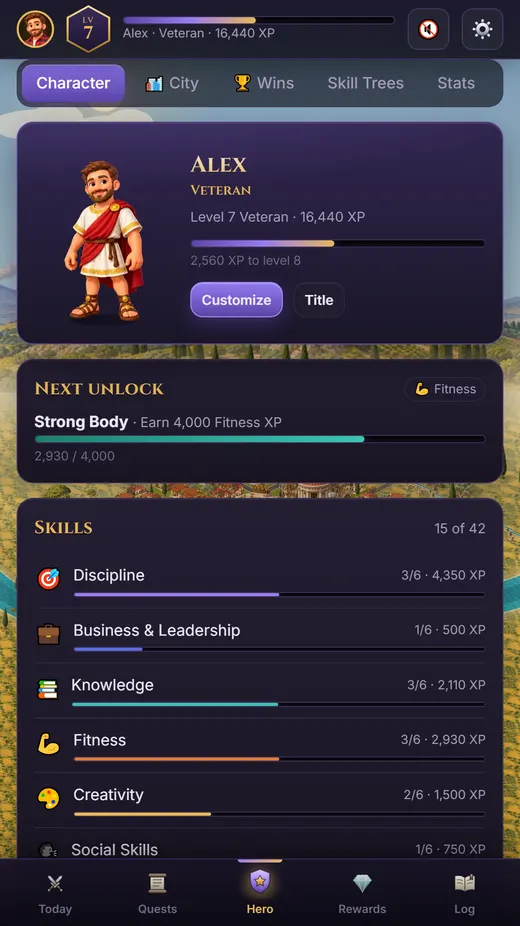
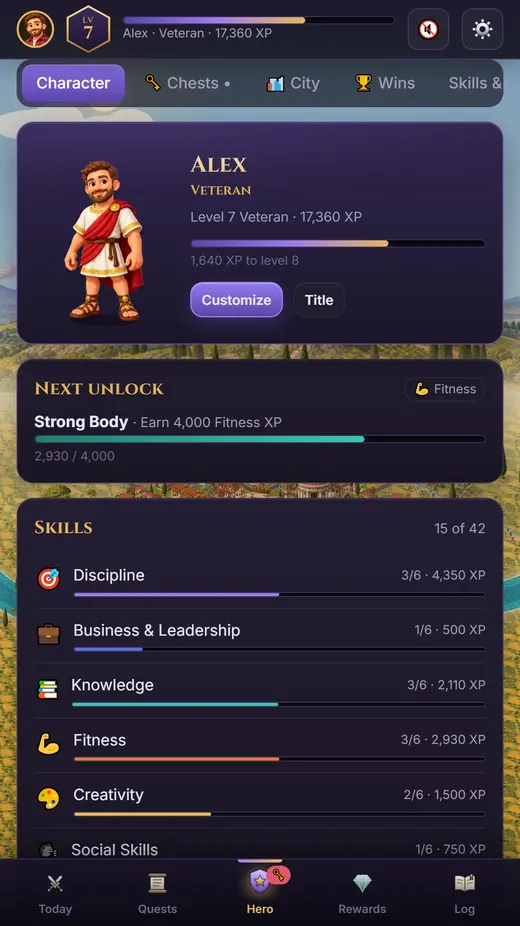
Life RPG page: keys and chests, with new screenshots from the game's version 65
A Keys and chests screenshot and feature (the features now fill three rows of three).
The Hero, Wins, Boss Battles and Rewards shots are retaken: painted badges, the
Boss Battle emblem and the Chests tab. The skill-tree shot is gone, so six shots
still fill two rows. Today and the city pictures stay as they were.

diff --git a/public/life-rpg/index.html b/public/life-rpg/index.html
@@ -54,7 +54,7 @@
     <div class="shop-top-pic"><img src="/assets/life-rpg/phones.webp?v=a983f433" width="1050" height="660" alt="Life RPG on three phones: a hero with seven skills, today's quests and a Roman city, with two of the game's heroes."></div>
   </div>
 </section>
-<section class="wrap section" aria-labelledby="how-h"><div class="sec-head"><h2 id="how-h">How it works</h2></div><ol class="shop-steps"><li><span class="shop-step-n" aria-hidden="true">1</span><b>Pick today&apos;s quests.</b> A workout, homework, reading, chores or a step toward a bigger goal.</li><li><span class="shop-step-n" aria-hidden="true">2</span><b>Do them, then tap.</b> Each quest you finish earns XP. Levels, skills and badges follow.</li><li><span class="shop-step-n" aria-hidden="true">3</span><b>Watch your city grow.</b> Every quest builds part of your city, and milestones add landmarks.</li></ol></section><section class="wrap section" aria-label="Screenshots"><ul class="shop-gallery"><li><figure><img src="/assets/life-rpg/today.webp?v=8a99c263" width="520" height="926" alt="The Today screen: level 7, an 18-day streak and three quests for the day." loading="lazy" decoding="async"><figcaption>Today&apos;s quests</figcaption></figure></li><li><figure><img src="/assets/life-rpg/hero.webp?v=5171fd4d" width="520" height="926" alt="The Hero screen: a painted hero in a Roman toga, the next unlock and progress in seven skills." loading="lazy" decoding="async"><figcaption>Your hero and skills</figcaption></figure></li><li><figure><img src="/assets/life-rpg/wins.webp?v=0d3edb89" width="520" height="926" alt="The Wins screen: records like quests done and the best streak, quest levels and badges." loading="lazy" decoding="async"><figcaption>Records and badges</figcaption></figure></li><li><figure><img src="/assets/life-rpg/trees.webp?v=1819ae9b" width="520" height="926" alt="A skill tree: steps unlocked by real progress, like Focus Mode and Streak Keeper." loading="lazy" decoding="async"><figcaption>Skill trees</figcaption></figure></li><li><figure><img src="/assets/life-rpg/bosses.webp?v=08c568f9" width="520" height="926" alt="Boss battles: big tasks you have been putting off, each with a large XP reward." loading="lazy" decoding="async"><figcaption>Boss battles</figcaption></figure></li><li><figure><img src="/assets/life-rpg/rewards.webp?v=f4d32fc3" width="520" height="926" alt="Rewards bought with XP: a movie night, new headphones and a weekend trip." loading="lazy" decoding="async"><figcaption>Your own rewards</figcaption></figure></li></ul></section><section class="band" aria-labelledby="inc-h"><div class="wrap"><div class="sec-head"><h2 id="inc-h">Everything that comes with it</h2></div><ul class="shop-feats"><li><span class="shop-feat-icon" aria-hidden="true">⚔</span><b>Daily quests</b><span>Pick three to five a day. A daily chest rewards coming back.</span></li><li><span class="shop-feat-icon" aria-hidden="true">⭐</span><b>Levels and XP</b><span>Quests level up the more you do them, and pay more.</span></li><li><span class="shop-feat-icon" aria-hidden="true">👹</span><b>Boss battles</b><span>One hard thing you&apos;ve been putting off, with a big reward.</span></li><li><span class="shop-feat-icon" aria-hidden="true">🌳</span><b>Seven skill trees</b><span>Skills, badges and titles, unlocked only by real progress.</span></li><li><span class="shop-feat-icon" aria-hidden="true">🧭</span><b>Plan my day</b><span>Suggestions for what to do next, from your own 90-day priorities.</span></li><li><span class="shop-feat-icon" aria-hidden="true">🎁</span><b>Your own rewards</b><span>Set real treats and spend XP on them.</span></li><li><span class="shop-feat-icon" aria-hidden="true">👨👩👧</span><b>Family scoreboard</b><span>Several players can share one device, with weekly leaderboards.</span></li><li><span class="shop-feat-icon" aria-hidden="true">💾</span><b>Yours to keep</b><span>Save a backup file whenever you like, and move it to a new device.</span></li></ul></div></section><section class="wrap section" aria-labelledby="heroes-h"><div class="sec-head"><h2 id="heroes-h">Pick your hero</h2><p>Twelve painted heroes, from kids to grandparents. Gear you earn, like a cape or a crown, shows on your hero.</p></div><ul class="lrpg-heroes"><li style="--w:473"><img src="/assets/life-rpg/heroes/h01_casual.webp?v=c8e4c247" width="189" height="400" alt="Boy in a blue hoodie" loading="lazy" decoding="async"></li><li style="--w:483"><img src="/assets/life-rpg/heroes/h02_casual.webp?v=05bfc3aa" width="193" height="400" alt="Girl in a yellow T-shirt" loading="lazy" decoding="async"></li><li style="--w:448"><img src="/assets/life-rpg/heroes/h03_casual.webp?v=db584e6e" width="179" height="400" alt="Boy in a green T-shirt" loading="lazy" decoding="async"></li><li style="--w:533"><img src="/assets/life-rpg/heroes/h04_casual.webp?v=7bab7547" width="213" height="400" alt="Girl in a red jacket" loading="lazy" decoding="async"></li><li style="--w:448"><img src="/assets/life-rpg/heroes/h05_casual.webp?v=935d7601" width="179" height="400" alt="Teen boy in a gray hoodie" loading="lazy" decoding="async"></li><li style="--w:473"><img src="/assets/life-rpg/heroes/h06_casual.webp?v=147c31c8" width="189" height="400" alt="Teen girl with a red ponytail" loading="lazy" decoding="async"></li><li class="break" aria-hidden="true"></li><li style="--w:473"><img src="/assets/life-rpg/heroes/h07_casual.webp?v=32fa6eb1" width="189" height="400" alt="Teen boy with round glasses" loading="lazy" decoding="async"></li><li style="--w:475"><img src="/assets/life-rpg/heroes/h08_casual.webp?v=c8b057b1" width="190" height="400" alt="Teen girl with long braids" loading="lazy" decoding="async"></li><li style="--w:495"><img src="/assets/life-rpg/heroes/h09_casual.webp?v=58f11cf3" width="198" height="400" alt="Dad in a flannel shirt" loading="lazy" decoding="async"></li><li style="--w:463"><img src="/assets/life-rpg/heroes/h10_casual.webp?v=c82711f7" width="185" height="400" alt="Mom in a coral blouse" loading="lazy" decoding="async"></li><li style="--w:533"><img src="/assets/life-rpg/heroes/h11_casual.webp?v=7eb057ba" width="213" height="400" alt="Man in a navy polo shirt" loading="lazy" decoding="async"></li><li style="--w:463"><img src="/assets/life-rpg/heroes/h12_casual.webp?v=786110b6" width="185" height="400" alt="Grandma in a green cardigan" loading="lazy" decoding="async"></li></ul><h3 class="lrpg-outfits-h">Dressed for each world</h3><ul class="lrpg-outfits"><li class="world-modern"><img src="/assets/life-rpg/heroes/h04_casual.webp?v=7bab7547" width="213" height="400" alt="In everyday clothes" loading="lazy" decoding="async"><span>Modern Town</span></li><li class="world-roman"><img src="/assets/life-rpg/heroes/h04_toga.webp?v=915357ca" width="214" height="400" alt="In a tunic and toga" loading="lazy" decoding="async"><span>Ancient Rome</span></li><li class="world-egypt"><img src="/assets/life-rpg/heroes/h04_egypt.webp?v=f959203c" width="213" height="400" alt="In a linen dress and a wide collar" loading="lazy" decoding="async"><span>Ancient Egypt</span></li><li class="world-future"><img src="/assets/life-rpg/heroes/h04_space.webp?v=15a489cc" width="207" height="400" alt="In a space suit" loading="lazy" decoding="async"><span>Robotic Future</span></li><li class="world-heaven"><img src="/assets/life-rpg/heroes/h04_heaven.webp?v=b041f4bb" width="219" height="400" alt="In a white robe" loading="lazy" decoding="async"><span>Heavenly City</span></li></ul></section><section class="wrap section" aria-labelledby="worlds-h"><div class="sec-head"><h2 id="worlds-h">Build in one of six worlds</h2><p>The six worlds on this site. Switch any time without losing progress.</p></div><ul class="shop-worlds"><li class="world-egypt"><img src="/assets/life-rpg/city-egypt-wide.webp?v=23716378" width="520" height="300" alt="Ancient Egypt in Life RPG" loading="lazy" decoding="async"><span>Ancient Egypt</span></li><li class="world-roman"><img src="/assets/life-rpg/city-roman-wide.webp?v=ad58a527" width="520" height="300" alt="Ancient Rome in Life RPG" loading="lazy" decoding="async"><span>Ancient Rome</span></li><li class="world-modern"><img src="/assets/life-rpg/city-modern-wide.webp?v=91bdf3e9" width="520" height="300" alt="Modern Town in Life RPG" loading="lazy" decoding="async"><span>Modern Town</span></li><li class="world-green"><img src="/assets/life-rpg/city-green-wide.webp?v=2d7028c0" width="520" height="300" alt="Green World in Life RPG" loading="lazy" decoding="async"><span>Green World</span></li><li class="world-future"><img src="/assets/life-rpg/city-future-wide.webp?v=4366ecb8" width="520" height="300" alt="Robotic Future in Life RPG" loading="lazy" decoding="async"><span>Robotic Future</span></li><li class="world-heaven"><img src="/assets/life-rpg/city-heaven-wide.webp?v=d8bd2299" width="520" height="300" alt="Heavenly City in Life RPG" loading="lazy" decoding="async"><span>Heavenly City</span></li></ul></section><section class="wrap section narrow" aria-labelledby="faq-h"><h2 id="faq-h">Questions</h2><div class="shop-faq"><details><summary>Is it a subscription?</summary><p>No. You pay $5 once, and it's yours. There are no ads and nothing else to buy.</p></details><details><summary>What do I need?</summary><p>A phone, tablet or computer with an up-to-date web browser. You can add Life RPG to your home screen, where it opens like an app.</p></details><details><summary>Do I need an account?</summary><p>No. Your receipt email has a key. Type it in once on each device you play on, up to 10 devices.</p></details><details><summary>Where is my progress saved?</summary><p>On your device, not on a server, so it stays private. Save a backup file now and then, and open it on another device to carry on there.</p></details><details><summary>Does it work without the internet?</summary><p>Yes, once it has opened. Only unlocking a new device needs a connection.</p></details><details><summary>Can I change the quests?</summary><p>Yes. Every quest, reward and stat can be changed. The starter quests cover work, family, health, money, learning and faith; remove any you don't want. There is a teen starter pack with school, chores and sports.</p></details><details><summary>Can kids play?</summary><p>Yes, with a grown-up. A grown-up buys it, and several players can share one device.</p></details></div></section>
+<section class="wrap section" aria-labelledby="how-h"><div class="sec-head"><h2 id="how-h">How it works</h2></div><ol class="shop-steps"><li><span class="shop-step-n" aria-hidden="true">1</span><b>Pick today&apos;s quests.</b> A workout, homework, reading, chores or a step toward a bigger goal.</li><li><span class="shop-step-n" aria-hidden="true">2</span><b>Do them, then tap.</b> Each quest you finish earns XP. Levels, skills and badges follow.</li><li><span class="shop-step-n" aria-hidden="true">3</span><b>Watch your city grow.</b> Every quest builds part of your city, and milestones add landmarks.</li></ol></section><section class="wrap section" aria-label="Screenshots"><ul class="shop-gallery"><li><figure><img src="/assets/life-rpg/today.webp?v=8a99c263" width="520" height="926" alt="The Today screen: level 7, an 18-day streak and three quests for the day." loading="lazy" decoding="async"><figcaption>Today&apos;s quests</figcaption></figure></li><li><figure><img src="/assets/life-rpg/hero.webp?v=06948740" width="520" height="926" alt="The Hero screen: a painted hero in a Roman toga, the next unlock and progress in seven skills." loading="lazy" decoding="async"><figcaption>Your hero and skills</figcaption></figure></li><li><figure><img src="/assets/life-rpg/chests.webp?v=59b56561" width="520" height="926" alt="The Chests screen: 42 keys, a common, a gold and an emerald chest to open, and 5 of 22 treasures found." loading="lazy" decoding="async"><figcaption>Keys and chests</figcaption></figure></li><li><figure><img src="/assets/life-rpg/wins.webp?v=446314fc" width="520" height="926" alt="The Wins screen: records like quests done and the best streak, quest levels and badges." loading="lazy" decoding="async"><figcaption>Records and badges</figcaption></figure></li><li><figure><img src="/assets/life-rpg/bosses.webp?v=a4f688f4" width="520" height="926" alt="Boss battles: big tasks you have been putting off, each with a large XP reward." loading="lazy" decoding="async"><figcaption>Boss battles</figcaption></figure></li><li><figure><img src="/assets/life-rpg/rewards.webp?v=6c269be2" width="520" height="926" alt="Rewards bought with XP: a movie night, new headphones and a weekend trip." loading="lazy" decoding="async"><figcaption>Your own rewards</figcaption></figure></li></ul></section><section class="band" aria-labelledby="inc-h"><div class="wrap"><div class="sec-head"><h2 id="inc-h">Everything that comes with it</h2></div><ul class="shop-feats"><li><span class="shop-feat-icon" aria-hidden="true">⚔</span><b>Daily quests</b><span>Pick three to five a day. A daily chest rewards coming back.</span></li><li><span class="shop-feat-icon" aria-hidden="true">⭐</span><b>Levels and XP</b><span>Quests level up the more you do them, and pay more.</span></li><li><span class="shop-feat-icon" aria-hidden="true">🗝</span><b>Keys and chests</b><span>Every quest earns a key. Open chests for bonus XP and treasures to collect.</span></li><li><span class="shop-feat-icon" aria-hidden="true">👹</span><b>Boss battles</b><span>One hard thing you&apos;ve been putting off, with a big reward.</span></li><li><span class="shop-feat-icon" aria-hidden="true">🌳</span><b>Seven skill trees</b><span>Skills, badges and titles, unlocked only by real progress.</span></li><li><span class="shop-feat-icon" aria-hidden="true">🧭</span><b>Plan my day</b><span>Suggestions for what to do next, from your own 90-day priorities.</span></li><li><span class="shop-feat-icon" aria-hidden="true">🎁</span><b>Your own rewards</b><span>Set real treats and spend XP on them.</span></li><li><span class="shop-feat-icon" aria-hidden="true">👨👩👧</span><b>Family scoreboard</b><span>Several players can share one device, with weekly leaderboards.</span></li><li><span class="shop-feat-icon" aria-hidden="true">💾</span><b>Yours to keep</b><span>Save a backup file whenever you like, and move it to a new device.</span></li></ul></div></section><section class="wrap section" aria-labelledby="heroes-h"><div class="sec-head"><h2 id="heroes-h">Pick your hero</h2><p>Twelve painted heroes, from kids to grandparents. Gear you earn, like a cape or a crown, shows on your hero.</p></div><ul class="lrpg-heroes"><li style="--w:473"><img src="/assets/life-rpg/heroes/h01_casual.webp?v=c8e4c247" width="189" height="400" alt="Boy in a blue hoodie" loading="lazy" decoding="async"></li><li style="--w:483"><img src="/assets/life-rpg/heroes/h02_casual.webp?v=05bfc3aa" width="193" height="400" alt="Girl in a yellow T-shirt" loading="lazy" decoding="async"></li><li style="--w:448"><img src="/assets/life-rpg/heroes/h03_casual.webp?v=db584e6e" width="179" height="400" alt="Boy in a green T-shirt" loading="lazy" decoding="async"></li><li style="--w:533"><img src="/assets/life-rpg/heroes/h04_casual.webp?v=7bab7547" width="213" height="400" alt="Girl in a red jacket" loading="lazy" decoding="async"></li><li style="--w:448"><img src="/assets/life-rpg/heroes/h05_casual.webp?v=935d7601" width="179" height="400" alt="Teen boy in a gray hoodie" loading="lazy" decoding="async"></li><li style="--w:473"><img src="/assets/life-rpg/heroes/h06_casual.webp?v=147c31c8" width="189" height="400" alt="Teen girl with a red ponytail" loading="lazy" decoding="async"></li><li class="break" aria-hidden="true"></li><li style="--w:473"><img src="/assets/life-rpg/heroes/h07_casual.webp?v=32fa6eb1" width="189" height="400" alt="Teen boy with round glasses" loading="lazy" decoding="async"></li><li style="--w:475"><img src="/assets/life-rpg/heroes/h08_casual.webp?v=c8b057b1" width="190" height="400" alt="Teen girl with long braids" loading="lazy" decoding="async"></li><li style="--w:495"><img src="/assets/life-rpg/heroes/h09_casual.webp?v=58f11cf3" width="198" height="400" alt="Dad in a flannel shirt" loading="lazy" decoding="async"></li><li style="--w:463"><img src="/assets/life-rpg/heroes/h10_casual.webp?v=c82711f7" width="185" height="400" alt="Mom in a coral blouse" loading="lazy" decoding="async"></li><li style="--w:533"><img src="/assets/life-rpg/heroes/h11_casual.webp?v=7eb057ba" width="213" height="400" alt="Man in a navy polo shirt" loading="lazy" decoding="async"></li><li style="--w:463"><img src="/assets/life-rpg/heroes/h12_casual.webp?v=786110b6" width="185" height="400" alt="Grandma in a green cardigan" loading="lazy" decoding="async"></li></ul><h3 class="lrpg-outfits-h">Dressed for each world</h3><ul class="lrpg-outfits"><li class="world-modern"><img src="/assets/life-rpg/heroes/h04_casual.webp?v=7bab7547" width="213" height="400" alt="In everyday clothes" loading="lazy" decoding="async"><span>Modern Town</span></li><li class="world-roman"><img src="/assets/life-rpg/heroes/h04_toga.webp?v=915357ca" width="214" height="400" alt="In a tunic and toga" loading="lazy" decoding="async"><span>Ancient Rome</span></li><li class="world-egypt"><img src="/assets/life-rpg/heroes/h04_egypt.webp?v=f959203c" width="213" height="400" alt="In a linen dress and a wide collar" loading="lazy" decoding="async"><span>Ancient Egypt</span></li><li class="world-future"><img src="/assets/life-rpg/heroes/h04_space.webp?v=15a489cc" width="207" height="400" alt="In a space suit" loading="lazy" decoding="async"><span>Robotic Future</span></li><li class="world-heaven"><img src="/assets/life-rpg/heroes/h04_heaven.webp?v=b041f4bb" width="219" height="400" alt="In a white robe" loading="lazy" decoding="async"><span>Heavenly City</span></li></ul></section><section class="wrap section" aria-labelledby="worlds-h"><div class="sec-head"><h2 id="worlds-h">Build in one of six worlds</h2><p>The six worlds on this site. Switch any time without losing progress.</p></div><ul class="shop-worlds"><li class="world-egypt"><img src="/assets/life-rpg/city-egypt-wide.webp?v=23716378" width="520" height="300" alt="Ancient Egypt in Life RPG" loading="lazy" decoding="async"><span>Ancient Egypt</span></li><li class="world-roman"><img src="/assets/life-rpg/city-roman-wide.webp?v=ad58a527" width="520" height="300" alt="Ancient Rome in Life RPG" loading="lazy" decoding="async"><span>Ancient Rome</span></li><li class="world-modern"><img src="/assets/life-rpg/city-modern-wide.webp?v=91bdf3e9" width="520" height="300" alt="Modern Town in Life RPG" loading="lazy" decoding="async"><span>Modern Town</span></li><li class="world-green"><img src="/assets/life-rpg/city-green-wide.webp?v=2d7028c0" width="520" height="300" alt="Green World in Life RPG" loading="lazy" decoding="async"><span>Green World</span></li><li class="world-future"><img src="/assets/life-rpg/city-future-wide.webp?v=4366ecb8" width="520" height="300" alt="Robotic Future in Life RPG" loading="lazy" decoding="async"><span>Robotic Future</span></li><li class="world-heaven"><img src="/assets/life-rpg/city-heaven-wide.webp?v=d8bd2299" width="520" height="300" alt="Heavenly City in Life RPG" loading="lazy" decoding="async"><span>Heavenly City</span></li></ul></section><section class="wrap section narrow" aria-labelledby="faq-h"><h2 id="faq-h">Questions</h2><div class="shop-faq"><details><summary>Is it a subscription?</summary><p>No. You pay $5 once, and it's yours. There are no ads and nothing else to buy.</p></details><details><summary>What do I need?</summary><p>A phone, tablet or computer with an up-to-date web browser. You can add Life RPG to your home screen, where it opens like an app.</p></details><details><summary>Do I need an account?</summary><p>No. Your receipt email has a key. Type it in once on each device you play on, up to 10 devices.</p></details><details><summary>Where is my progress saved?</summary><p>On your device, not on a server, so it stays private. Save a backup file now and then, and open it on another device to carry on there.</p></details><details><summary>Does it work without the internet?</summary><p>Yes, once it has opened. Only unlocking a new device needs a connection.</p></details><details><summary>Can I change the quests?</summary><p>Yes. Every quest, reward and stat can be changed. The starter quests cover work, family, health, money, learning and faith; remove any you don't want. There is a teen starter pack with school, chores and sports.</p></details><details><summary>Can kids play?</summary><p>Yes, with a grown-up. A grown-up buys it, and several players can share one device.</p></details></div></section>
 <section class="band shop-again" aria-labelledby="again-h">
   <div class="wrap shop-again-inner">
     <h2 id="again-h">Start your first quest today</h2>

diff --git a/build/shop.php b/build/shop.php
@@ -162,8 +162,8 @@ $lrpgShots = shop_gallery(array_map(function ($s) {
 }, [
   ['today', 'The Today screen: level 7, an 18-day streak and three quests for the day.', "Today's quests"],
   ['hero', 'The Hero screen: a painted hero in a Roman toga, the next unlock and progress in seven skills.', 'Your hero and skills'],
+  ['chests', 'The Chests screen: 42 keys, a common, a gold and an emerald chest to open, and 5 of 22 treasures found.', 'Keys and chests'],
   ['wins', 'The Wins screen: records like quests done and the best streak, quest levels and badges.', 'Records and badges'],
-  ['trees', 'A skill tree: steps unlocked by real progress, like Focus Mode and Streak Keeper.', 'Skill trees'],
   ['bosses', 'Boss battles: big tasks you have been putting off, each with a large XP reward.', 'Boss battles'],
   ['rewards', 'Rewards bought with XP: a movie night, new headphones and a weekend trip.', 'Your own rewards'],
 ]));
@@ -214,6 +214,7 @@ shop_page('life-rpg', [
     . shop_feats([
       ['⚔', 'Daily quests', 'Pick three to five a day. A daily chest rewards coming back.'],
       ['⭐', 'Levels and XP', 'Quests level up the more you do them, and pay more.'],
+      ['🗝', 'Keys and chests', 'Every quest earns a key. Open chests for bonus XP and treasures to collect.'],
       ['👹', 'Boss battles', 'One hard thing you\'ve been putting off, with a big reward.'],
       ['🌳', 'Seven skill trees', 'Skills, badges and titles, unlocked only by real progress.'],
       ['🧭', 'Plan my day', 'Suggestions for what to do next, from your own 90-day priorities.'],
